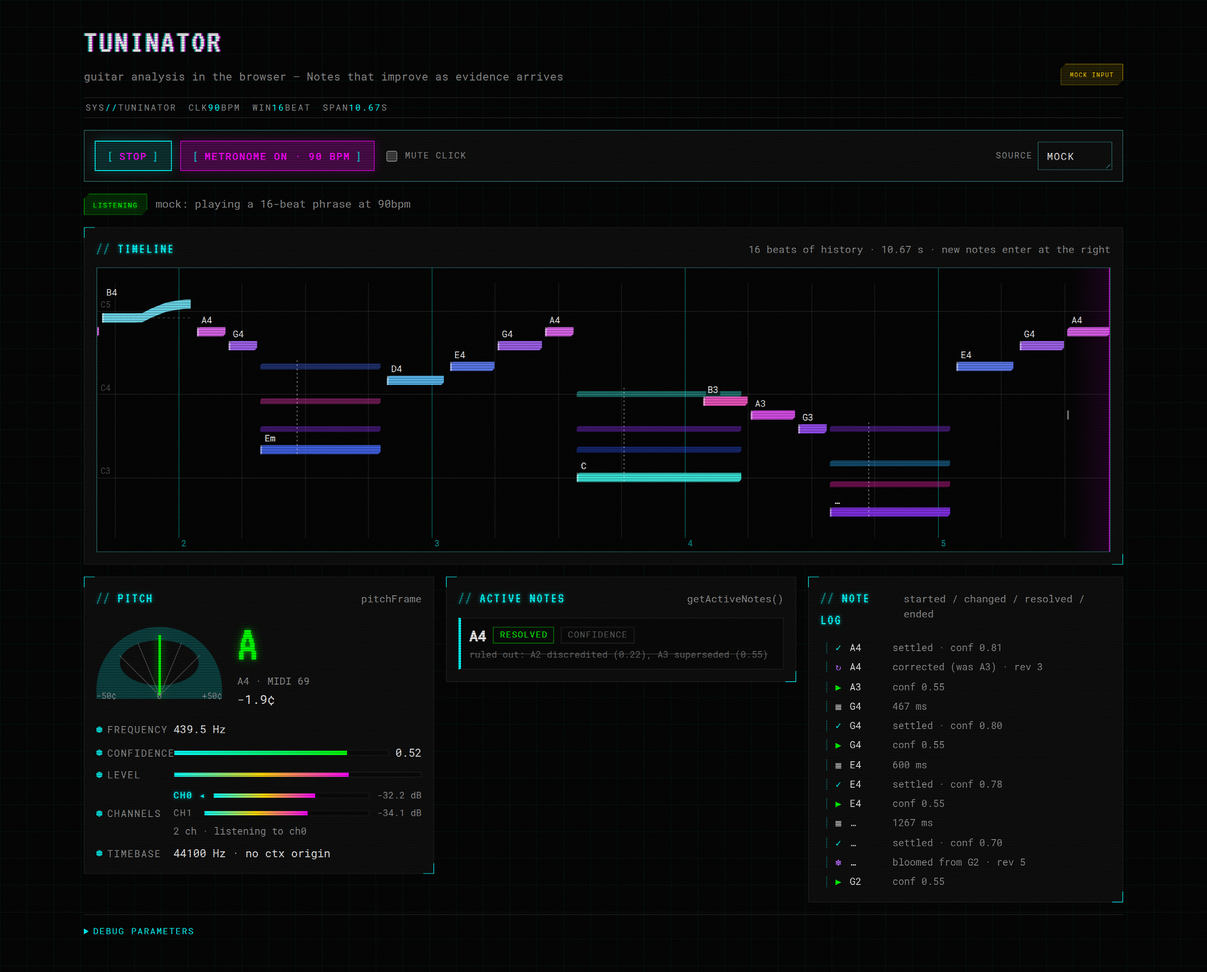
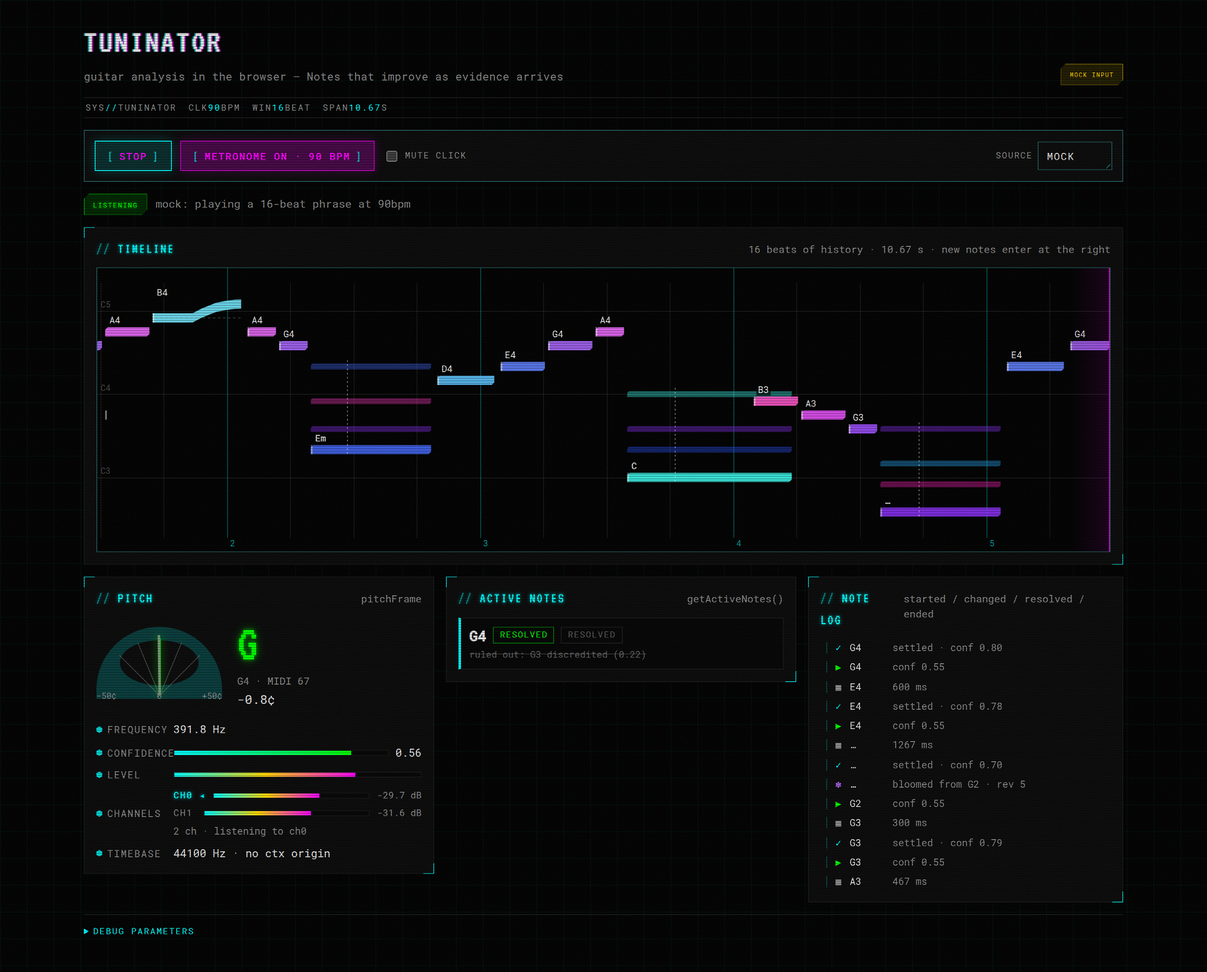
Fix the timeline's vertical axis to a static guitar range
The pitch axis eased toward whatever was currently sounding every frame,
which read as the whole timeline drifting vertically rather than the notes
moving through it. Fixed instead: low E open to the high e's 12th fret
(E2-E5, MIDI 40-76) - guitar's practical range, three octaves plus the low
string.

#updatePitchRange() and the two mutable #lowMidi/#highMidi fields are gone;
#yOf() reads the fixed LOW_MIDI/HIGH_MIDI constants directly. A pitch outside
the range still draws, clamped to the top or bottom edge rather than
dropped. As a side effect, a given pitch's brightness (colourFor's octave
ramp) is now also stable over time instead of shifting as the old adaptive
range moved under it.

Verified with npm run typecheck and npm run smoke:live (all checks pass,
including canvas ink-ratio and distinct-colour assertions); screenshot.png
regenerated from the run.

Claude-Session: https://claude.ai/code/session_019jqcqSU96kZ1grbYe8v3nB

diff --git a/src/timeline.ts b/src/timeline.ts
@@ -31,9 +31,17 @@ export const WINDOW_BEATS = 16;
 
 const BAR_HEIGHT = 11;
 const CHORD_TONE_HEIGHT = 7;
-const MIN_SEMITONE_SPAN = 20;
-const DEFAULT_LOW_MIDI = 40; // E2
-const DEFAULT_HIGH_MIDI = 76; // E5
+/**
+ * The vertical axis is fixed, not adaptive: low E open to the high e's 12th
+ * fret -- three octaves plus the low string, guitar's practical range.
+ *
+ * It used to ease toward whatever pitch span was currently sounding, which
+ * read as the whole picture drifting vertically underneath the bars. A pitch
+ * outside this fixed span still draws -- `#yOf` clamps to the top/bottom edge
+ * rather than dropping it.
+ */
+const LOW_MIDI = 40; // E2, open low E
+const HIGH_MIDI = 76; // E5, high e's 12th fret
 const TRACE_LIMIT = 512;
 const PAD_TOP = 18;
 const PAD_BOTTOM = 22;
@@ -172,7 +180,7 @@ function colourFor(midi: number, alpha: number, theme: CanvasTheme, lift = 0): s
   // Higher notes read brighter, which reinforces the vertical axis. The floor
   // is lifted from 44 to 52 because the ground is now pure black, where the
   // darkest bars previously disappeared.
-  const light = Math.min(80, 52 + (midi - DEFAULT_LOW_MIDI) * 0.42 + lift);
+  const light = Math.min(80, 52 + (midi - LOW_MIDI) * 0.42 + lift);
   return `hsla(${hue}, ${theme.sat}%, ${light}%, ${alpha})`;
 }
 
@@ -191,9 +199,6 @@ export class Timeline {
   #cssWidth = 0;
   #cssHeight = 0;
   #dpr = 1;
-
-  #lowMidi = DEFAULT_LOW_MIDI;
-  #highMidi = DEFAULT_HIGH_MIDI;
 
   #rafId: number | null = null;
   #observer: ResizeObserver | null = null;
@@ -325,7 +330,6 @@ export class Timeline {
     if (width <= 0 || height <= 0) return;
 
     this.#prune(now);
-    this.#updatePitchRange();
 
     const ctx = this.#ctx;
     ctx.fillStyle = this.#theme.ground;
@@ -352,9 +356,8 @@ export class Timeline {
   }
 
   #yOf(midi: number, height: number): number {
-    const span = this.#highMidi - this.#lowMidi;
     const usable = height - PAD_TOP - PAD_BOTTOM;
-    const ratio = (midi - this.#lowMidi) / span;
+    const ratio = (midi - LOW_MIDI) / (HIGH_MIDI - LOW_MIDI);
     return PAD_TOP + usable * (1 - Math.min(1, Math.max(0, ratio)));
   }
 
@@ -366,41 +369,13 @@ export class Timeline {
     }
   }
 
-  /** Keep every visible note on screen, easing rather than snapping. */
-  #updatePitchRange(): void {
-    let lo = Number.POSITIVE_INFINITY;
-    let hi = Number.NEGATIVE_INFINITY;
-    for (const note of this.#notes.values()) {
-      for (const pitch of note.pitches) {
-        if (pitch < lo) lo = pitch;
-        if (pitch > hi) hi = pitch;
-      }
-    }
-    if (!Number.isFinite(lo) || !Number.isFinite(hi)) {
-      lo = DEFAULT_LOW_MIDI;
-      hi = DEFAULT_HIGH_MIDI;
-    }
-
-    let targetLow = Math.floor(lo) - 3;
-    let targetHigh = Math.ceil(hi) + 3;
-    const deficit = MIN_SEMITONE_SPAN - (targetHigh - targetLow);
-    if (deficit > 0) {
-      targetLow -= deficit / 2;
-      targetHigh += deficit / 2;
-    }
-
-    const ease = 0.08;
-    this.#lowMidi += (targetLow - this.#lowMidi) * ease;
-    this.#highMidi += (targetHigh - this.#highMidi) * ease;
-  }
-
   #drawPitchGuides(width: number, height: number): void {
     const ctx = this.#ctx;
     ctx.font = `10px ${this.#theme.fontMono}`;
     ctx.textBaseline = "middle";
 
-    const first = Math.ceil(this.#lowMidi / 12) * 12;
-    for (let midi = first; midi <= this.#highMidi; midi += 12) {
+    const first = Math.ceil(LOW_MIDI / 12) * 12;
+    for (let midi = first; midi <= HIGH_MIDI; midi += 12) {
       const y = this.#yOf(midi, height);
       ctx.strokeStyle = this.#theme.guide;
       ctx.lineWidth = 1;

diff --git a/README.md b/README.md
@@ -129,8 +129,11 @@ A canvas, redrawn on `requestAnimationFrame`.
   over a still-ringing chord is two bars, not one replacing the other.
 - **Beat gridlines come from the metronome's own clock**, so a note played on the click sits on a
   gridline. Bar lines (every 4 beats) are brighter and numbered.
-- **Pitch is the vertical axis**, with hue per pitch class and lightness rising with octave; the
-  range eases to fit whatever is on screen. Octave guides are labelled `C3`, `C4`, …
+- **Pitch is the vertical axis**, with hue per pitch class and lightness rising with octave, over a
+  **fixed** range: low E open to the high e's 12th fret (E2–E5, three octaves plus the low string).
+  It does not adapt to what's currently sounding — an earlier version eased toward the active pitch
+  span every frame, which read as the whole picture scrolling vertically. A pitch outside the fixed
+  range still draws, pinned to the top or bottom edge. Octave guides are labelled `C3`, `C4`, …
 - **Bars are labelled** `harmony.chordName ?? pitch.current.name`, and **dimmed in proportion to
   `confidence`** rather than hidden. A chord the recognizer will not name renders as `…`.
 - **Bends stay one Note.** The ribbon follows `pitch.contour` when the library supplies it
